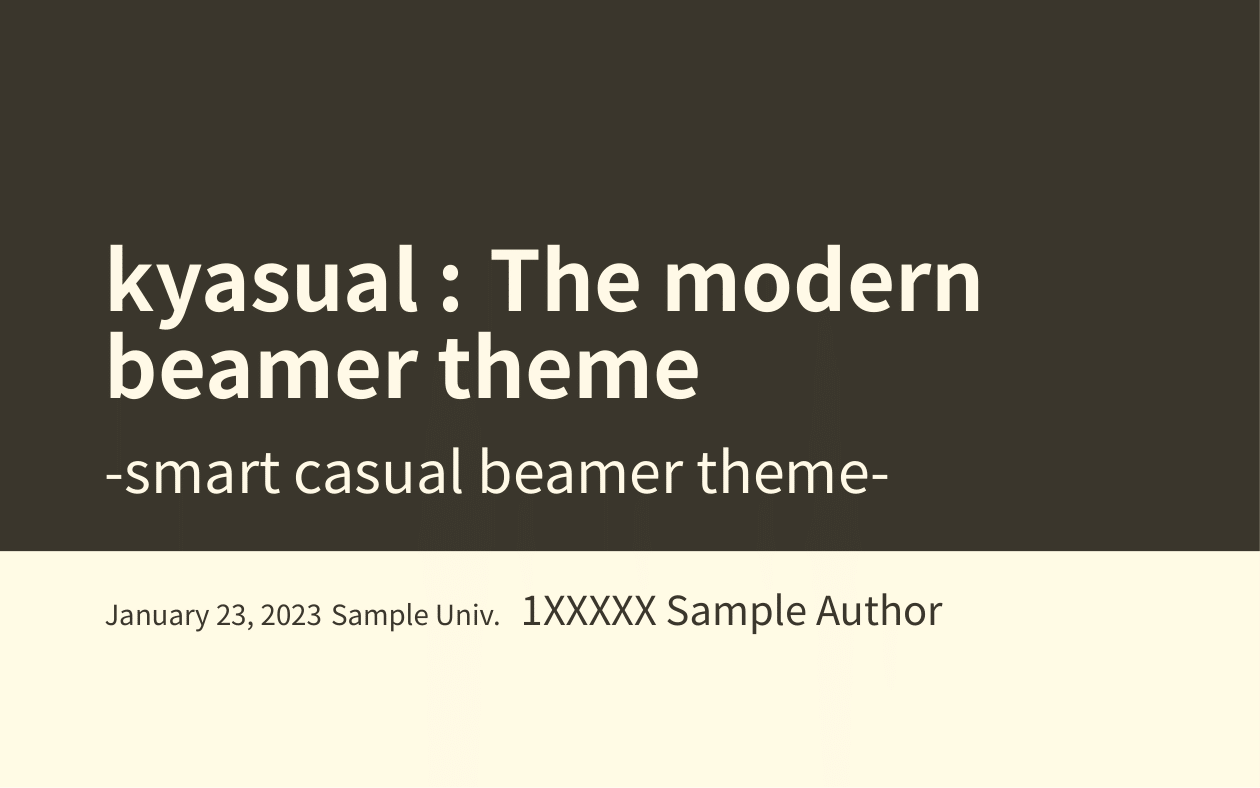
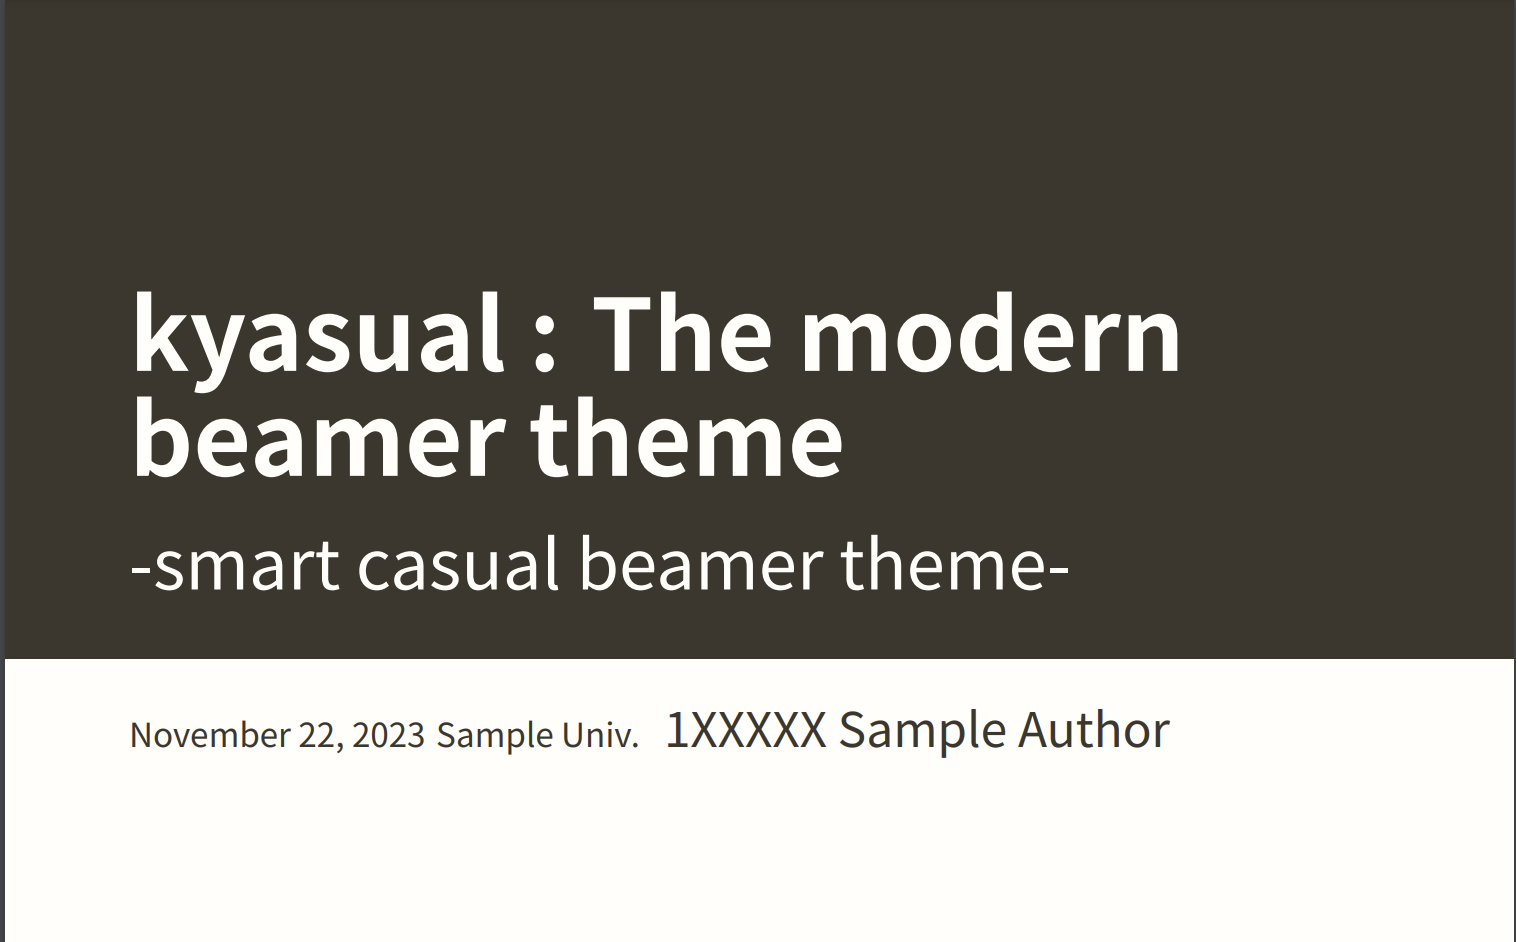
rename

diff --git a/sampleslide.tex b/sampleslide.tex
@@ -5,10 +5,10 @@
 %%% Begin:
 
 \title{%
-    kyasual : The modern\\ beamer theme
+    kyasure : The modern\\ beamer theme
 }
 \subtitle{
-    -smart casual beamer theme-
+    -a mature version of kyasual-
 }
 \author{%
     1XXXXX\ Sample Author
@@ -28,7 +28,7 @@
 \end{frame}
 
 \begin{frame}[fragile]{Abstract}
-    なんか良い感じのbeamer theme †\alert{kyasual}†ができた!
+    なんか良い感じのbeamer theme †\alert{kyature}†ができた!
 \end{frame}
 
 \section{Introduction}

diff --git a/README.md b/README.md
@@ -1,11 +1,11 @@
 # kyasual
 
-My Beamer Theme. 
+A Mature Version of kyasual.
 
 ![sampleslide1](/fig/sampleslide/sampleslide-01.png)
-![sampleslide3](/fig/sampleslide/sampleslide-03.png)
-![sampleslide4](/fig/sampleslide/sampleslide-04.png)
-![sampleslide5](/fig/sampleslide/sampleslide-05.png)
+![sampleslide3](/fig/sampleslide/sampleslide-02.png)
+![sampleslide4](/fig/sampleslide/sampleslide-03.png)
+![sampleslide5](/fig/sampleslide/sampleslide-04.png)
 
 Documentation is in [/sampleslide.pdf](/sampleslide.pdf).
 
